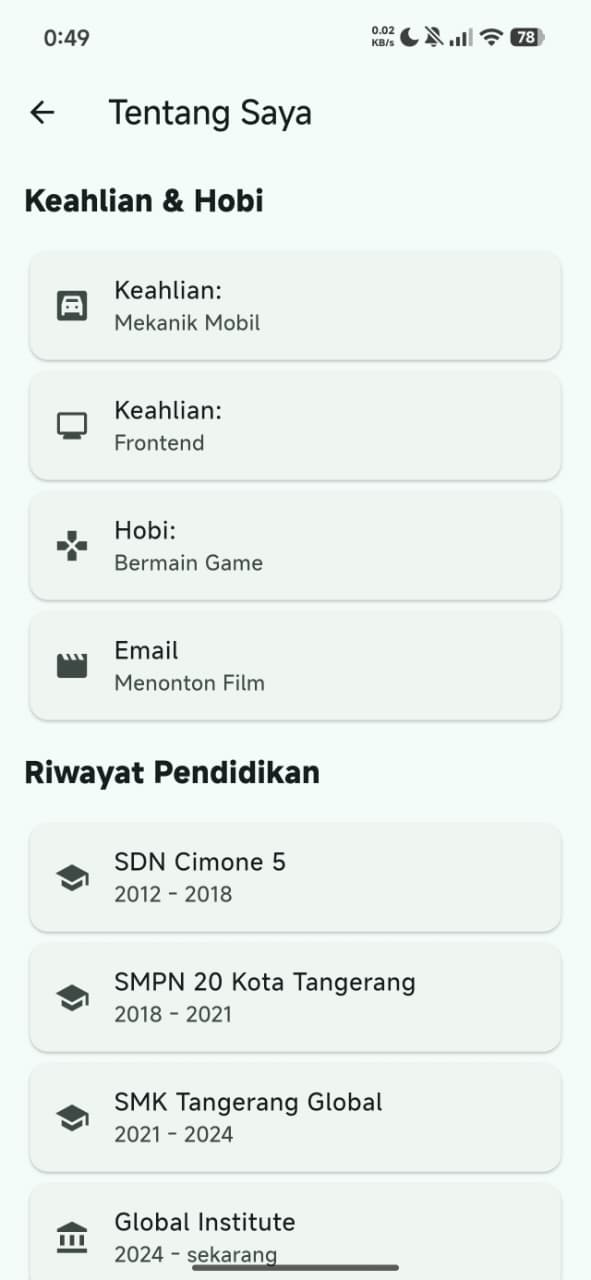
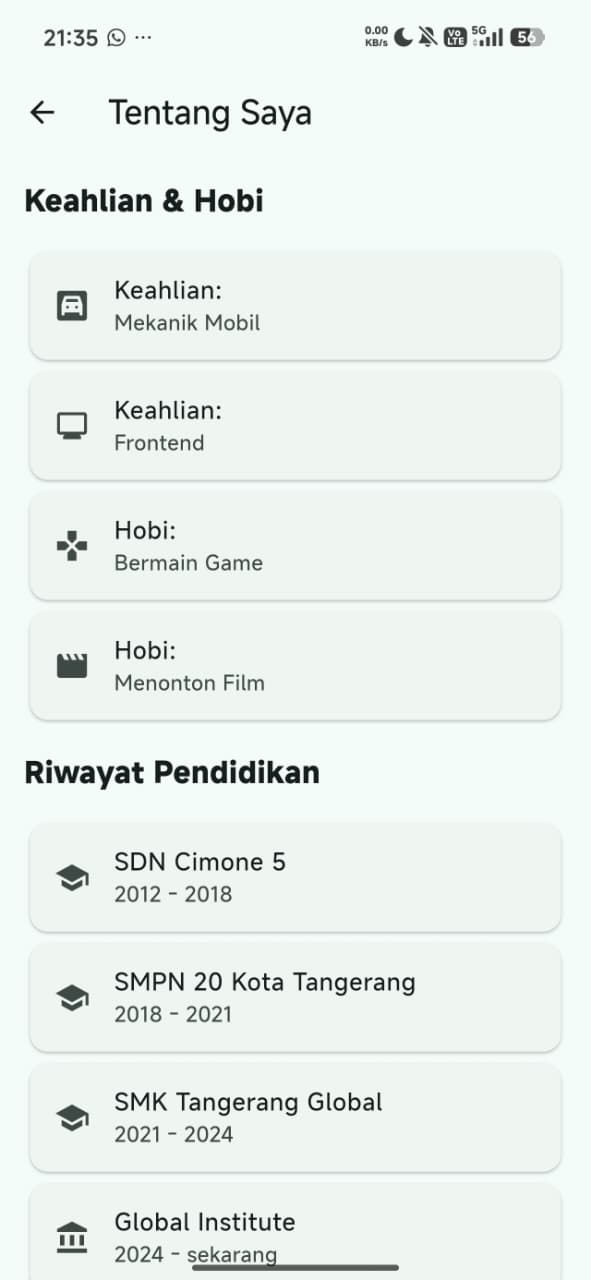
docs: update README

diff --git a/README.md b/README.md
@@ -8,7 +8,7 @@
 
 ## Link Video YouTube
 
-blm
+https://youtu.be/6k_9hjMB5tM?si=DXAPzeCPkWdYWDJa
 
 ## Screenshot
 

diff --git a/soal2profilapp/README.md b/soal2profilapp/README.md
@@ -8,7 +8,7 @@
 
 ## Link Video YouTube
 
-blm
+https://youtu.be/6k_9hjMB5tM?si=DXAPzeCPkWdYWDJa
 
 ## Screenshot
 
